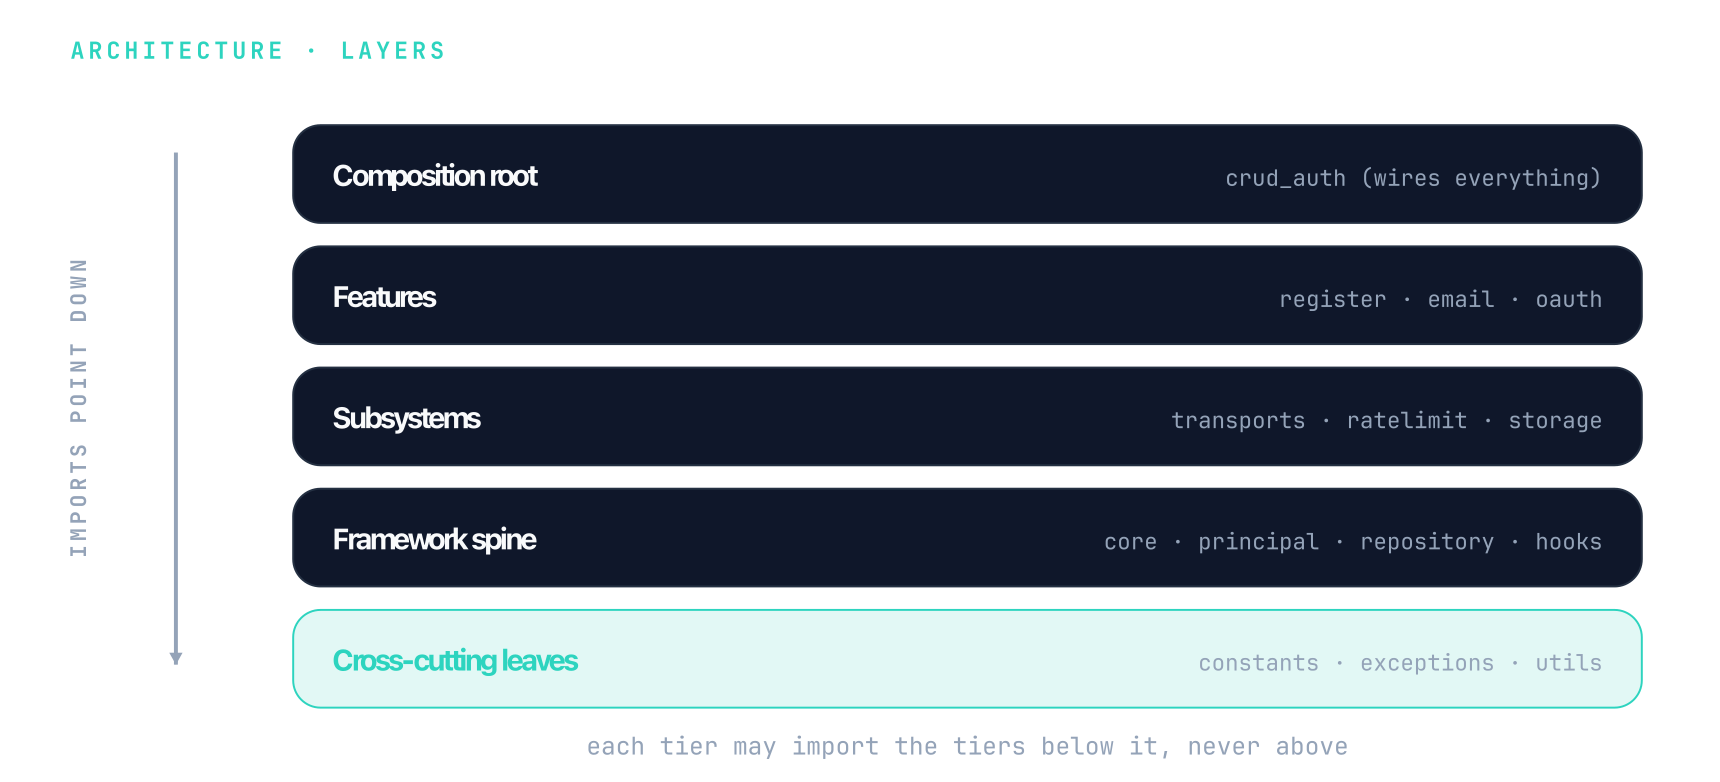
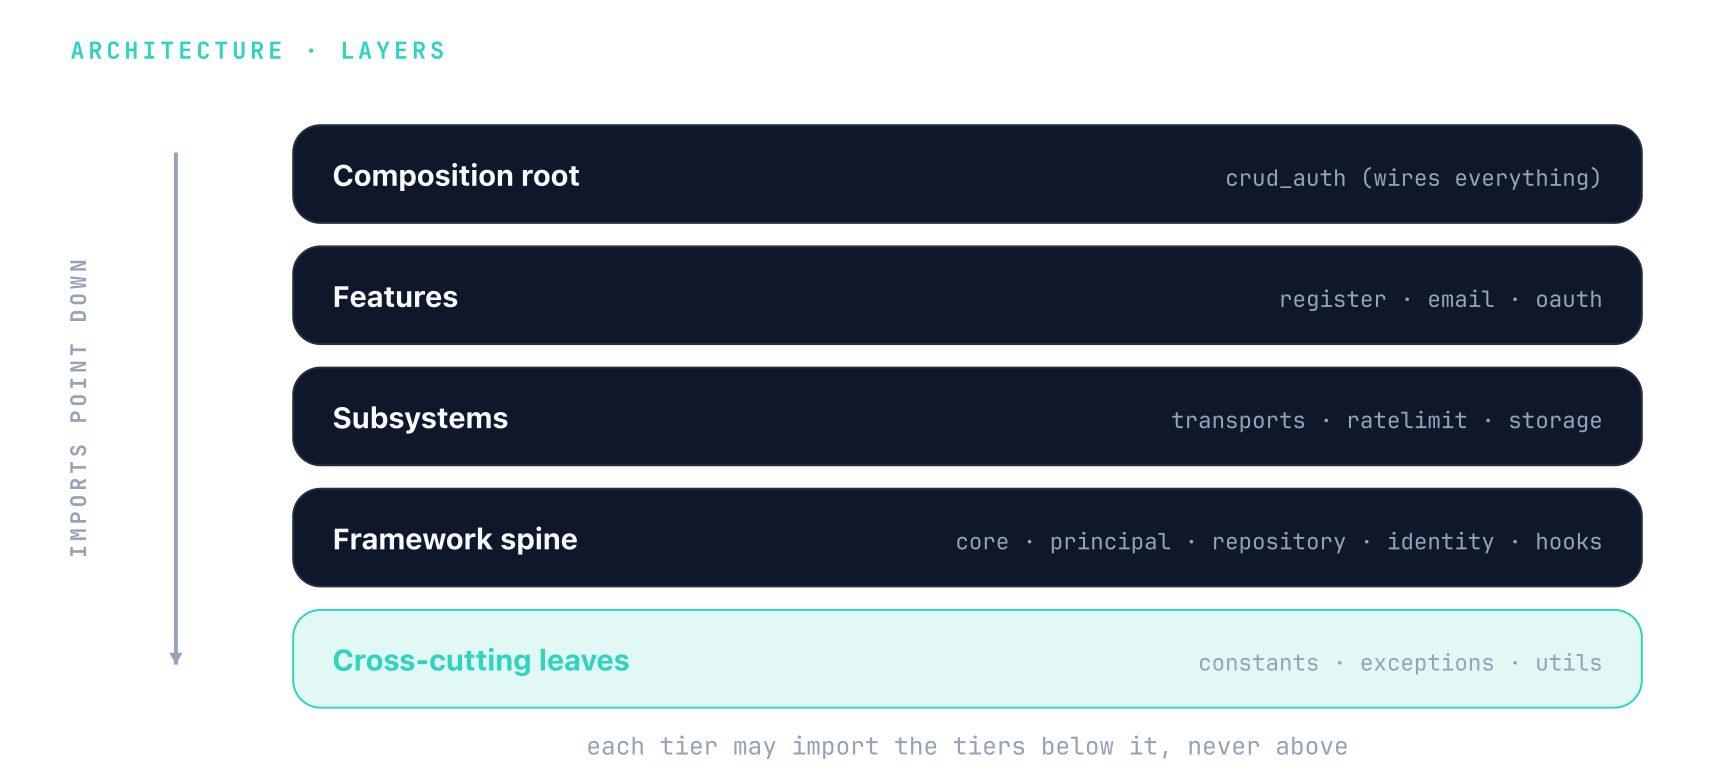
architecture docs update

diff --git a/docs/architecture.md b/docs/architecture.md
@@ -19,8 +19,8 @@ wrong layer.
 
 **Framework spine** is the set of ports plus the composition root: `crud_auth.py`
 (`CRUDAuth`, the one object you configure and mount), `core.py` (the `Transport` port and the
-shared runtime types), `principal.py`, `repository.py`, and `hooks.py`. `CRUDAuth` is the only
-module allowed to import from every layer.
+shared runtime types), `principal.py`, `repository.py`, `identity.py` (the account-shape
+contract), and `hooks.py`. `CRUDAuth` is the only module allowed to import from every layer.
 
 **Cross-cutting leaves** depend on nothing internal: `constants.py`, `exceptions.py`,
 `utils.py`. The registration gating contract (`REGISTRATION_ALLOWED_FIELDS`) lives in
@@ -33,6 +33,27 @@ subsystems, but never another feature.
 **Pluggable subsystems** are a `base.py` port over a `backends/` adapter set, so you swap the
 backend without touching callers: `transports/` (session, bearer), `ratelimit/`, and
 `storage/`.
+
+## The identity contract
+
+<p align="center">
+  <img src="assets/diagrams/identity-contract-light.png#only-light" alt="Two inputs, your model (make_auth_identity, whose columns are the shape) and IdentityConfig (the intent: login and recovery), are validated against each other at startup and fail closed; the same machinery yields an email-plus-username account with email recovery, a username-login account with phone recovery, or a username-only account with no recovery" width="100%">
+  <img src="assets/diagrams/identity-contract-dark.png#only-dark" alt="Two inputs, your model (make_auth_identity, whose columns are the shape) and IdentityConfig (the intent: login and recovery), are validated against each other at startup and fail closed; the same machinery yields an email-plus-username account with email recovery, a username-login account with phone recovery, or a username-only account with no recovery" width="100%">
+</p>
+
+An account's *shape* is read from the model, never configured in two places. The user columns
+come from `models/` (the `make_auth_identity` factory, with `AuthUserMixin` its default), and the
+`repository.py` logical-field contract reads them back, so nothing else touches the model
+directly. `IdentityConfig` (`identity.py`) carries only the intent a schema can't express: the
+login resolution order and the recovery factor. At construction `CRUDAuth` validates that config
+against the model's actual columns and fails closed, which keeps the model the single source of
+truth and stops the config from drifting from it.
+
+The recovery factor is what makes verification and reset factor-agnostic. "Verified" means the
+recovery factor is proven controlled (email is the special case, a phone the general one), and
+recovery tokens are handed to `DeliveryChannel` adapters, so an account recovers over email, SMS,
+or any channel you implement. The `verify` and `reset` request endpoints are shaped to the factor,
+so a phone-recovery app drives them with a phone number.
 
 ## A request's path
 
@@ -66,6 +87,12 @@ user internally) does one authentication, not several:
   `base.py`. Callers reach it through the port.
 - **A transport:** add a package under `transports/` whose class implements the `Transport`
   port from `core.py`, and pass an instance in `transports=[...]`.
+- **A delivery channel:** implement the `DeliveryChannel` port (`email/channel.py`) and pass an
+  instance in `channels=[...]`, so recovery tokens route over SMS, push, or your own transport. It
+  is a port owned by a feature rather than a top-level subsystem.
+- **An account shape:** build the model with `make_auth_identity(identifiers=, recovery=, oauth=)`
+  and a matching `IdentityConfig`; the runtime reads the shape, so username-only, phone-recovery,
+  and email accounts are configuration, not forks.
 - **A feature:** add a package with its own `router.py` (plus `service.py` / `schemas.py` /
   `constants.py`) and mount it from `crud_auth.py`, without importing sibling features.
 